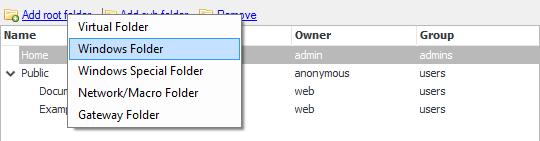
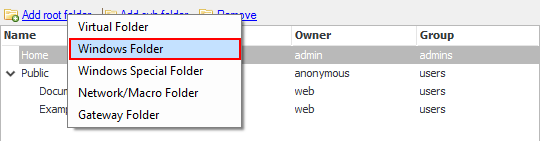
Fifth commit
This is the fifth commit

Changed region(s): [[0.1185, 0.2553, 0.4444, 0.4255]]

diff --git a/README.md b/README.md
@@ -6,19 +6,19 @@ This is the step-by-step instruction on how to install the new web file-manager 
 
 **1.** First, clone the repository of the web file-manager [here](https://github.com/EnterpriseDT/completeftp-filemanager).
 
-**2.** Then launch the CompleteFTP Manager and go to the *Folders* panel.
+**2.** Then launch the *CompleteFTP Manager* and go to the *Folders* panel.
  
 ![Select Folders panel](/img/selectFolderPanel.png)
 
-**3.** Add a root Windows folder in the virtual file-system and map it to the cloned folder in the Windows file-system by clicking *Add root folder* at the top of the panel and selecting *Windows Folder* menu item.
+**3.** Click *Add root folder* at the top of the panel and selecting *Windows Folder* menu item to add a root Windows folder in the virtual file-system.
 
 ![Add root Windows folder](/img/addRootWindowsFolder.png)
 
-**4.** Next, select the cloned folder, i.e. *completeftp-filemanager* and press *OK* button.
+**4.** Then map it to the cloned folder in the Windows file-system, i.e. *completeftp-filemanager* and press *OK* button.
 
 ![Mapping folder](/img/mapFolder.png)
 
-**5.** (Optional) Change the name of the newly created folder to whatever you like by clicking the ellipsis button of the *Name* property, entering a name (e.g. *NewFileManager*) and click *OK* button. 
+**5.** (Optional) Change the name of the newly created folder to whatever you like by clicking the ellipsis button of the *Name* property, typing a name (e.g. *NewFileManager*) and pressing *OK*. 
 
 ![Change folder name](/img/changeFolderName.png)
 
@@ -26,10 +26,10 @@ This is the step-by-step instruction on how to install the new web file-manager 
 
 ![Apply change](/img/applyChanges.png)
 
-**7.** Now, open a web browser, navigate to your CompleteFTP server, i.e. http()://myserver, and login first (if you already logged in, skip this).
+**7.** Now, open a web browser, navigate to your CompleteFTP server, e.g. [http(s)://myserver](http(s)://myserver), and login if you haven't logged in yet.
 
 ![Login](/img/login.png)
 
-**8.** After logging in successfully, navigate to the new web file-manager at http(s)://myserver/NewFileManager. 
+**8.** After logging in successfully, navigate to the new web file-manager at [http(s)://myserver/NewFileManager](http(s)://myserver/NewFileManager). 
 
 ![New File-Manager](/img/newFileManager.png)
